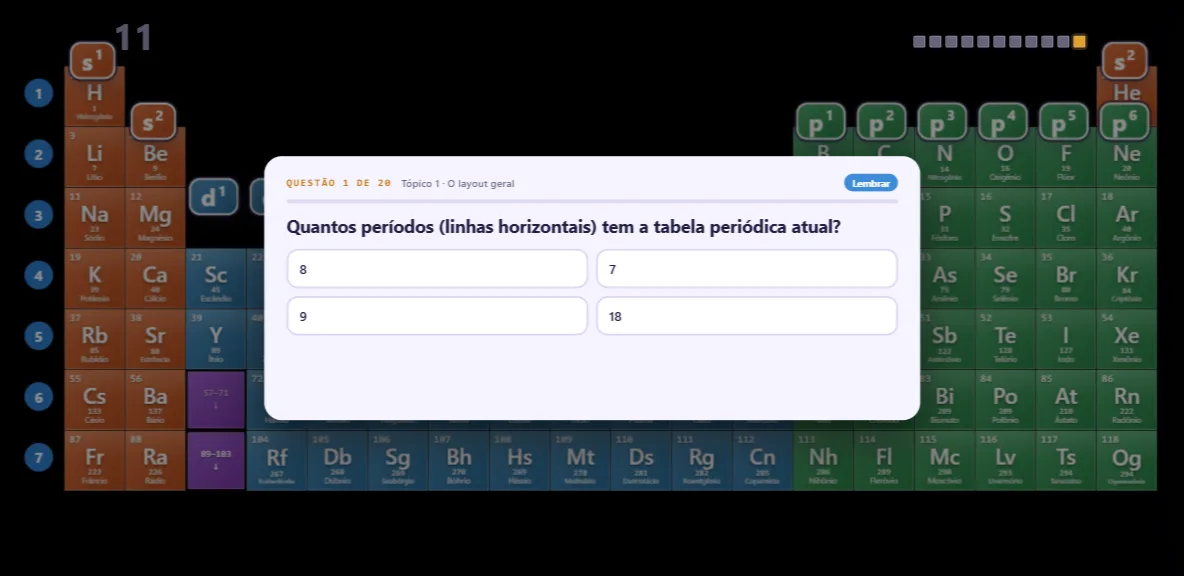
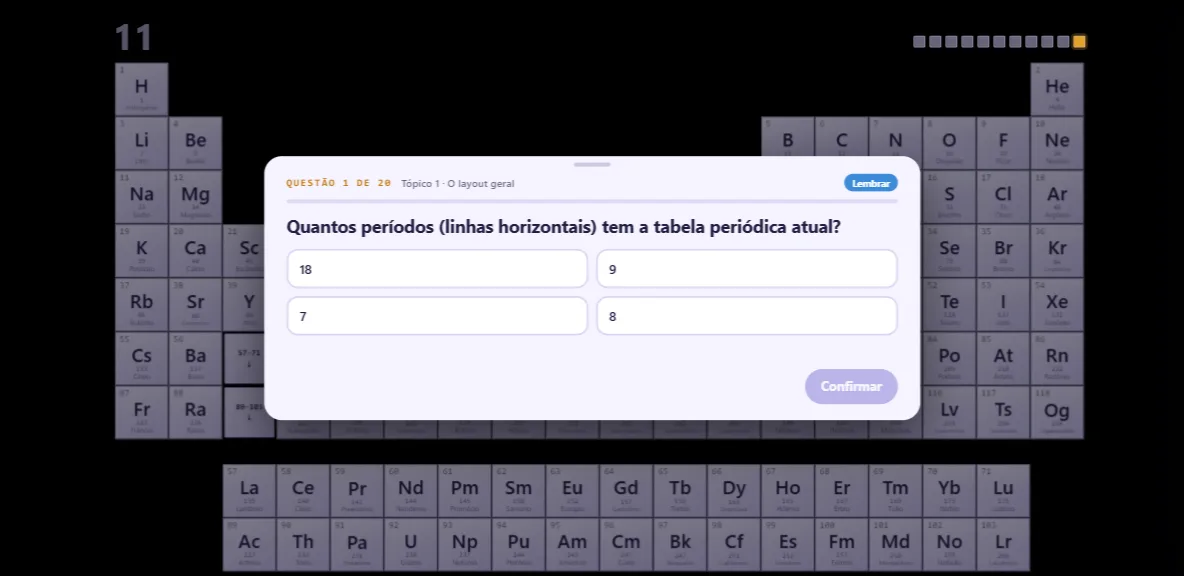
v67.7 · Quiz geral: a mesa do começo do tópico 10 em todas as questões; a resposta vale só no Confirmar (com o som); a caixa sai para a direita e a nova entra pela esquerda, com rastro de luz

diff --git a/tabela-periodica.html b/tabela-periodica.html
@@ -3589,7 +3589,38 @@ body.montagem .titulo9.texto101.fora1052{opacity:0!important;pointer-events:none
 .qf-msg.ok{color:#1E8A4C}
 .qf-msg.erro{color:#C0283F}
 .qf-pe{display:flex;justify-content:flex-end;margin-top:8px;min-height:44px}
-.qf-prox{font:700 16px var(--display);padding:10px 20px;border-radius:999px;border:0;background:#4C3FBF;color:#fff;cursor:pointer}
+.qf-prox{font:700 16px var(--display);padding:10px 20px;border-radius:999px;border:0;background:#4C3FBF;color:#fff;cursor:pointer;transition:opacity .2s, transform .15s}
+/* (v67.7: tocar numa alternativa só a marca; o som e a correção vêm no Confirmar) */
+.qf-op.escolhida{border-color:#4C3FBF;background:#ECE8FF;box-shadow:0 0 0 3px rgba(76,63,191,.18)}
+.qf-caixa .qf-prox:disabled{opacity:.35;cursor:default}
+.qf-prox:not(:disabled):hover{transform:translateY(-1px)}
+/* (v67.7: a troca de questão — a caixa dispara para a direita, borrada e esticada,
+   e a nova chega pela esquerda, passa um pouco do lugar e assenta; um rastro de
+   luz atravessa a sala e um brilho varre a caixa nova) */
+.qf-caixa.sai{animation:qfSai .5s cubic-bezier(.55,0,.85,.35) forwards;pointer-events:none}
+.qf-caixa.entra{animation:qfEntra .78s cubic-bezier(.2,.8,.25,1) .12s backwards}
+@keyframes qfSai{
+  0%{transform:translate(-50%,-50%)}
+  22%{transform:translate(calc(-50% - 26px),-50%) scale(.97);filter:blur(0)}
+  100%{transform:translate(calc(-50% + 1100px),-50%) skewX(-16deg) scaleX(1.3);filter:blur(12px);opacity:0}}
+@keyframes qfEntra{
+  0%{transform:translate(calc(-50% - 1100px),-50%) skewX(-16deg) scaleX(1.3);filter:blur(12px);opacity:0}
+  55%{transform:translate(calc(-50% + 24px),-50%) skewX(5deg) scaleX(.97);filter:blur(0);opacity:1}
+  78%{transform:translate(calc(-50% - 7px),-50%) skewX(-1.5deg)}
+  100%{transform:translate(-50%,-50%)}}
+.qf-caixa.entra::after{content:'';position:absolute;inset:0;border-radius:inherit;pointer-events:none;
+  background:linear-gradient(105deg,transparent 38%,rgba(255,255,255,.95) 48%,rgba(190,180,255,.7) 52%,transparent 62%) no-repeat;
+  background-size:300% 100%;box-shadow:0 0 0 2px rgba(150,135,255,.9), 0 0 38px 8px rgba(120,100,255,.55);
+  animation:qfBrilho .9s ease-out .35s backwards}
+@keyframes qfBrilho{0%{background-position:100% 0;opacity:1}70%{opacity:1}100%{background-position:0 0;opacity:0}}
+.qf-rastro{position:absolute;inset:0;z-index:46;pointer-events:none;overflow:hidden}
+.qf-rastro i{position:absolute;left:0;width:70%;border-radius:999px;
+  background:linear-gradient(90deg,transparent,rgba(130,115,255,0) 10%,rgba(150,135,255,.85) 70%,#fff);
+  box-shadow:0 0 14px 3px rgba(140,125,255,.6);animation:qfRisco .55s cubic-bezier(.3,0,.7,1) backwards}
+@keyframes qfRisco{0%{transform:translateX(-110%);opacity:0}25%{opacity:1}100%{transform:translateX(190%);opacity:0}}
+.qf-rastro b{position:absolute;width:6px;height:6px;border-radius:50%;background:#fff;
+  box-shadow:0 0 10px 3px rgba(170,155,255,.9);animation:qfFaisca .7s ease-out backwards}
+@keyframes qfFaisca{0%{transform:translate(0,0) scale(1.3);opacity:1}100%{transform:translate(var(--fx),var(--fy)) scale(0);opacity:0}}
 .quiz-cartao .segue.espera-fala{opacity:.45;cursor:default;filter:grayscale(.4)}
 .quiz-cartao .recado.recado-final{font-size:15px;line-height:1.4;max-width:300px;margin-left:auto;margin-right:auto}
 .slide.final10 .mesa{filter:brightness(.55)}
@@ -5605,7 +5636,7 @@ const TOPICO_11 = { n:11, slide:10, title:'Quiz geral', subtitle:'20 questões, 
    worker recebe-a no endereço com que é registado (sw.js?v=…). Mudando
    este texto, muda o endereço, o aparelho instala o serviço novo e o
    cache velho vai-se embora — não há uma segunda versão para esquecer. */
-const VERSAO = 'v67.6';
+const VERSAO = 'v67.7';
 
 /* A CAPA NOVA — a ideia do Claude Design: fundo escuro, o título grande e
    claro à esquerda, a tabelinha apagada ao fundo à direita e o sódio, o
@@ -25956,12 +25987,20 @@ const TOPICOS_FINAL = ['', 'O layout geral', 'Os critérios de organização', '
 const QUIZFINAL = {
   aberto:false, g:0, i:0, acertos:0,
   sl(){ return slides[10]; },
-  abre(){
+  /* (volta: { i, acertos } — o ONDE reabre o quiz na questão em que estava) */
+  abre(volta){
     if (atual !== 10) return;
+    /* (v67.7: em todas as questões, a mesa do começo do tópico 10 — lilás, com as séries embaixo) */
+    this.mesaDoComeco();
     this.fecha(true);
     this.g++;
-    this.i = 0; this.acertos = 0; this.aberto = true;
+    const n = QUESTOES_FINAL.length;
+    this.i = volta ? Math.max(0, Math.min(n, volta.i | 0)) : 0;
+    this.acertos = volta ? Math.max(0, Math.min(this.i, volta.acertos | 0)) : 0;
+    this.aberto = true;
     som.pause(); stage.classList.add('sem-play-m10');
+    /* (a sala escura do quiz 3, posta de novo: a troca de trilha a clareia) */
+    if (window.QUIZ10C){ QUIZ10C.jaAbriu = true; QUIZ10C.escurece(); }
     const sl = this.sl();
     sl.classList.add('final10');
     const tt = sl.querySelector('.tira .title');
@@ -25969,12 +26008,57 @@ const QUIZFINAL = {
     else cabecaDoQuiz(sl, true, 'Quiz final', 'quiz-cabeca');
     /* (v67.5: é o tópico 11 — o número do cabeçalho vira 11) */
     const nn = sl.querySelector('.tira .num'); if (nn) nn.textContent = TOPICO_11.n;
-    const cx = this.cx = document.createElement('div');
-    cx.className = 'qf-caixa';
-    sl.appendChild(cx);
-    this.arrastavel(cx);
+    /* (voltando depois da última questão já respondida: direto ao cartão da nota) */
+    if (this.i >= n){ this.i = n - 1; this.respondida = true; this.resultado(); return; }
+    const cx = this.cx = this.novaCaixa();
     cx.getBoundingClientRect(); cx.classList.add('on');
     this.mostra();
+  },
+  /* a mesa como no começo do tópico 10: a trilha "10" parada no 0 (o relógio põe a mesa) */
+  mesaDoComeco(){
+    if (trilhaAtual !== '10'){ trilhaAtual = -1; carregaTrilha('10'); }
+    som.pause();
+    const zera = () => { if (trilhaAtual === '10' && som.currentTime) som.currentTime = 0; };
+    if (som.readyState >= 1) zera(); else som.addEventListener('loadedmetadata', zera, { once:true });
+    try { efeitosDoTempo(); } catch (e){ console.error(e); }
+  },
+  novaCaixa(){
+    const cx = document.createElement('div');
+    cx.className = 'qf-caixa';
+    this.sl().appendChild(cx);
+    this.arrastavel(cx);
+    return cx;
+  },
+  /* (v67.7) a troca de questão: a caixa velha dispara para a direita, a nova vem da esquerda */
+  proxima(){
+    const velha = this.cx, sl = this.sl();
+    this.i++;
+    if (velha){ velha.classList.add('sai'); setTimeout(() => velha.remove(), 560); }
+    this.rastro(sl);
+    const cx = this.cx = this.novaCaixa();
+    cx.classList.add('on', 'entra');
+    cx.addEventListener('animationend', e => { if (e.animationName === 'qfEntra') cx.classList.remove('entra'); });
+    this.mostra(true);
+  },
+  /* os riscos de luz que atravessam a sala na altura da caixa, e as faíscas que ela solta */
+  rastro(sl){
+    const r = document.createElement('div');
+    r.className = 'qf-rastro';
+    const cy = sl.offsetHeight / 2 + this.dy;
+    let h = '';
+    for (let k = 0; k < 9; k++){
+      const y = cy + (Math.random() - .5) * 300, alto = 1.5 + Math.random() * 3.5;
+      h += '<i style="top:' + y.toFixed(0) + 'px;height:' + alto.toFixed(1) + 'px;animation-delay:' + (Math.random() * .22).toFixed(2) + 's"></i>';
+    }
+    const cx = sl.offsetWidth / 2 + this.dx;
+    for (let k = 0; k < 14; k++){
+      const x = cx + (Math.random() - .5) * 700, y = cy + (Math.random() - .5) * 260;
+      h += '<b style="left:' + x.toFixed(0) + 'px;top:' + y.toFixed(0) + 'px;--fx:' + (60 + Math.random() * 160).toFixed(0) + 'px;--fy:' +
+           ((Math.random() - .5) * 120).toFixed(0) + 'px;animation-delay:' + (.05 + Math.random() * .3).toFixed(2) + 's"></b>';
+    }
+    r.innerHTML = h;
+    sl.appendChild(r);
+    setTimeout(() => r.remove(), 1200);
   },
   /* (v67.6: o aluno arrasta a caixa para ver a tabela atrás; ela fica onde foi posta
      nas questões seguintes e no Refazer, e volta ao meio quando o quiz fecha) */
@@ -26004,24 +26088,35 @@ const QUIZFINAL = {
     cx.addEventListener('pointerup', solta);
     cx.addEventListener('pointercancel', solta);
   },
-  mostra(){
-    const Q = QUESTOES_FINAL[this.i], ops = embaralha(Q.ops.slice());
-    this.respondida = false;
+  /* (anda: veio da questão anterior — a barra cresce a partir de onde estava) */
+  mostra(anda){
+    const Q = QUESTOES_FINAL[this.i], ops = embaralha(Q.ops.slice()), n = QUESTOES_FINAL.length;
+    this.respondida = false; this.escolhida = null;
+    const pc = k => (Math.max(0, k) / n * 100).toFixed(1) + '%';
     this.cx.innerHTML =
-      '<div class="qf-topo"><span class="qf-marca">Questão ' + (this.i + 1) + ' de ' + QUESTOES_FINAL.length + '</span>' +
+      '<div class="qf-topo"><span class="qf-marca">Questão ' + (this.i + 1) + ' de ' + n + '</span>' +
       '<span class="qf-topico">Tópico ' + Q.t + ' · ' + TOPICOS_FINAL[Q.t] + '</span>' +
       '<span class="qf-bloom" data-nivel="' + Q.nivel + '">' + Q.nivel + '</span></div>' +
-      '<div class="qf-barra"><i style="width:' + (this.i / QUESTOES_FINAL.length * 100).toFixed(1) + '%"></i></div>' +
+      '<div class="qf-barra"><i style="width:' + pc(anda ? this.i - 1 : this.i) + '"></i></div>' +
       '<div class="qf-q">' + Q.q + '</div>' +
       '<div class="qf-ops">' + ops.map(o => '<button type="button" class="qf-op">' + o + '</button>').join('') + '</div>' +
-      '<div class="qf-msg"></div><div class="qf-pe"></div>';
-    this.cx.querySelectorAll('.qf-op').forEach(b => b.addEventListener('click', () => this.responde(b)));
+      '<div class="qf-msg"></div><div class="qf-pe"><button type="button" class="qf-prox qf-confirma" disabled>Confirmar</button></div>';
+    if (anda){ const bar = this.cx.querySelector('.qf-barra i'); setTimeout(() => { bar.style.width = pc(this.i); }, 650); }
+    this.cx.querySelectorAll('.qf-op').forEach(b => b.addEventListener('click', () => this.escolhe(b)));
+    this.cx.querySelector('.qf-confirma').addEventListener('click', () => { if (this.escolhida) this.responde(this.escolhida); });
+  },
+  /* (v67.7) o toque numa alternativa só a marca — pode-se trocar até confirmar */
+  escolhe(b){
+    if (!this.aberto || this.respondida) return;
+    this.escolhida = b;
+    this.cx.querySelectorAll('.qf-op').forEach(x => x.classList.toggle('escolhida', x === b));
+    this.cx.querySelector('.qf-confirma').disabled = false;
   },
   responde(b){
     if (!this.aberto || this.respondida) return;
     this.respondida = true;
     const Q = QUESTOES_FINAL[this.i], certa = b.textContent === Q.ops[0];
-    this.cx.querySelectorAll('.qf-op').forEach(x => { x.disabled = true; if (x.textContent === Q.ops[0]) x.classList.add('certa'); });
+    this.cx.querySelectorAll('.qf-op').forEach(x => { x.disabled = true; x.classList.remove('escolhida'); if (x.textContent === Q.ops[0]) x.classList.add('certa'); });
     const m = this.cx.querySelector('.qf-msg');
     if (certa){
       this.acertos++;
@@ -26038,12 +26133,13 @@ const QUIZFINAL = {
     p.querySelector('.qf-prox').addEventListener('click', () => {
       if (!this.aberto) return;
       if (ult) { this.resultado(); return; }
-      this.i++; this.mostra();
+      this.proxima();
     });
   },
   resultado(){
     const n = QUESTOES_FINAL.length, nota = Math.round(this.acertos / n * 100) / 10;
-    if (this.cx){ const cx = this.cx; cx.classList.remove('on'); setTimeout(() => cx.remove(), 500); this.cx = null; }
+    /* (a última caixa sai como as outras: disparando para a direita) */
+    if (this.cx){ const cx = this.cx; cx.classList.add('sai'); this.rastro(this.sl()); setTimeout(() => cx.remove(), 560); this.cx = null; }
     QUIZ_FEITOS.marca('q10f', nota);
     confete();
     cartaoDoResultado(nota, n + ' questões · <em class="erro">' + (n - this.acertos) + '</em> ' + (n - this.acertos === 1 ? 'erro' : 'erros'),
@@ -26065,7 +26161,7 @@ const QUIZFINAL = {
     this.aberto = false;
     const sl = this.sl();
     if (!sl) return;
-    sl.querySelectorAll('.qf-caixa, .quiz-cartao').forEach(e => e.remove());
+    sl.querySelectorAll('.qf-caixa, .qf-rastro, .quiz-cartao').forEach(e => e.remove());
     this.cx = null;
     /* (o número do cabeçalho volta a ser o 10 — o abre põe o 11 de novo) */
     const nn = sl.querySelector('.tira .num'); if (nn) nn.textContent = TOPICO_11.slide;
@@ -29709,11 +29805,12 @@ const NAV_TOPICOS = [
   { titulo:'Quiz musical', sub:'o quiz musical direto: as notas pelos subníveis e a música', slide:10, quiz:'q10m',
     salto:['10.7.3', 24.5, true],
     entra(v, g){ QUIZ10C.jaAbriu = true; saltaPara10('10.7.3', g, 24.5, () => { QUIZ10C.jaAbriu = true; QUIZ10C.escurece(); MUSICA10.abre(); }); } },
-  /* o quiz geral direto (o quiz final: 20 questões, duas de cada tópico): a mesa como no fim da 10.7.3, a sala escura */
+  /* o quiz geral direto (o quiz final: 20 questões, duas de cada tópico): a sala escura */
   /* (v67.5: é o capítulo 11 do sumário — cap11 —, e não um subtópico do 10) */
+  /* (v67.7: a mesa é a do começo do tópico 10 — a trilha "10" parada no 0; o QUIZFINAL.abre escurece a sala) */
   { titulo:'Quiz geral', sub:'o quiz final: 20 questões, duas de cada tópico', slide:10, quiz:'q10f', cap11:true,
-    salto:['10.7.3', 24.5, true],
-    entra(v, g){ QUIZ10C.jaAbriu = true; saltaPara10('10.7.3', g, 24.5, () => { QUIZ10C.jaAbriu = true; QUIZ10C.escurece(); QUIZFINAL.abre(); }); } },
+    salto:['10', 0, true],
+    entra(v, g){ saltaPara10('10', g, 0, () => QUIZFINAL.abre()); } },
   { titulo:'Jogo da memória', sub:'a narração do jogo, e o botão dele no canto', slide:1, quiz:'jogo',
     variantes:[ { id:'jogo', rotulo:'abrir o jogo direto' } ],
     entra(v, g){
@@ -30399,6 +30496,8 @@ const ONDE = {
     if (QUIZ.aberto) o.quiz = { origem:QUIZ.origem, itens:QUIZ.itens.map(i => i.z), passo:QUIZ.passo,
                                 acertos:QUIZ.acertos, erros:QUIZ.erros, nota:!!QUIZ.mostrandoNota };
     if (QUIZ3.aberto) o.quiz3 = true;
+    /* (v67.7: o quiz geral — a questão em que está; respondida, já conta a seguinte) */
+    if (atual === 10 && QUIZFINAL.aberto) o.final = { i:QUIZFINAL.i + (QUIZFINAL.respondida ? 1 : 0), acertos:QUIZFINAL.acertos };
     /* no slide 11, os cards dos subníveis já nos encaixes */
     if (atual === 10 && CARDS101.postos.size) o.blocos10 = [...CARDS101.postos];
     if (atual === 10 && CARDS101.passo103) o.colunas103 = CARDS101.passo103;
@@ -30484,6 +30583,7 @@ const ONDE = {
       if (o.quiz) QUIZ.retoma(o.quiz);
       else if (o.jogo) this.jogo(o.jogo);
       else if (o.quiz3){ viraQuiz(true); QUIZ3.abre(); }
+      else if (o.final) QUIZFINAL.abre(o.final);
       else if (o.resumo){
         const k = o.resumo === true ? 1 : o.resumo;
         if (k === 1) SEQ.quizDa = '1.4'; else viraQuiz(true, 'Resumo');

diff --git a/NOTAS_TOPICO_10.md b/NOTAS_TOPICO_10.md
@@ -126,7 +126,7 @@ O áudio antigo da 10.6 (82,7 s) foi dividido em três. As legendas da 10.6 fica
 | s – O exemplo do Pu | 10.7.6 |
 | t – Quiz 3 | 10.7.3 aos 10,2 s (a demonstração e o quiz 3; v65.5: já escura e limpa, sem se montar — pula1073) |
 | u – Quiz musical | o jogo musical direto (a mesa como no fim da 10.7.3, a sala escura) |
-| **11. Quiz geral** (capítulo próprio, v67.5) | o quiz final direto (20 questões, duas de cada tópico; a sala escura) |
+| **11. Quiz geral** (capítulo próprio, v67.5) | o quiz final direto (20 questões, duas de cada tópico; a sala escura; v67.7: a mesa do começo do tópico 10 — trilha "10" parada no 0) |
 
 **Todos os itens do sumário do tópico 10 saltam direto para a tela do começo** (v60.5), sem a cena se montar à vista. Cada item tem `salto:[trilha, segundo, quiz?]`; o `irPara` chama `preparaSalto10` (e um `efeitosDoTempo()` na hora) logo depois do `go()` — ou, no mesmo slide, logo depois do `recomecaSlide()`, para a cena da 10 não aparecer num quadro — (a trilha já é posta parada naquele segundo, e a classe `salto1071` no `#stage` desliga as transições), e o `entra` chama `saltaPara10`, que toca a narração (ou abre o quiz) quando a mesa chega; as transições voltam 0,3 s depois (e, de todo jeito, em 4 s). Item novo no sumário do tópico 10: usar `salto:[...]` + `entra(v, g){ saltaPara10(...) }`.
 
@@ -263,6 +263,7 @@ Retiming da 8.4; card tocado todo verde ou só contorno; armadilha da Q8 do quiz
 - **v66.3:** na 10.7.6, aos 16 s o n do "n − 2" vira 7 (azul): "7 − 2"; aos 19 s, o 5 vermelho. A bolinha 7 da série e a fórmula são medidas quando a bolinha aparece (antes, pelo sumário, eram medidas com a mesa ainda chegando e ficavam fora da tela).
 - **v66.5:** no quiz musical (a 10.7.8 e o jogo) e no quiz geral, a tabela volta a ficar sem os lantanídeos e actinídeos, no lugar da 10.6 (`abreF107` dá falso); os elementos que piscam na 10.7.8 não são das séries.
 - **v66.6–v66.7:** na 10.6, aos 9 s (por 2 s), os blocos s e p crescem 7 % e brilham, com o halo de cada bloco (`cresceSP106`; os halos são refeitos na hora, e a 10.5.1 refaz os seus se foram medidos noutra narração); a tela escura da regra tem o título "Elementos Representativos (s ou p)". Na 10.6.1, sem as pulsações na chegada das setas: ficam as dos 11 s (bolinha do 3) e 12,3 s (etiqueta s²) e o revezamento do fim.
+- **v67.7:** o quiz geral é o foco agora. Em todas as questões, a mesa é a do começo do tópico 10 (lilás, com as séries embaixo): `QUIZFINAL.mesaDoComeco()` põe a trilha "10" parada no 0, venha o quiz do sumário, do cartão do musical, do Refazer ou do ONDE; o próprio `abre` escurece a sala (`QUIZ10C.escurece`). Tocar numa alternativa só a marca (`.escolhida`, dá para trocar); o som (right/error) e a correção vêm no botão **Confirmar**, que vira "Próxima →". Na troca de questão (`proxima`), a caixa dispara para a direita (borrada, esticada) e a nova vem da esquerda, passa do lugar e assenta, com riscos de luz e faíscas (`rastro`) e um brilho que varre a caixa; a barra de progresso cresce depois que ela chega. O ONDE guarda o quiz geral (`o.final = { i, acertos }`; respondida, já conta a seguinte) e reabre na mesma questão.
 - **v67.6:** no quiz geral a caixa das questões se arrasta (pelo fundo, não pelos botões; o tracinho no alto é a alça), sempre inteira dentro do slide; fica onde foi posta nas questões seguintes e no Refazer, e volta ao meio quando o quiz fecha (`QUIZFINAL.arrastavel`, `dx`/`dy`). No cabeçalho do quiz geral o título começa logo depois do "11" (antes o cobria).
 - **v67.5 — o tópico 11:** o quiz geral deixou de ser o "v" do tópico 10 e virou o **tópico 11** (`TOPICO_11`), só com ele. Não é um slide novo: mora no slide 11, sobre a mesa do 10. No sumário é o capítulo "11. Quiz geral" (o item do NAV_TOPICOS tem `cap11:true` e fica fora da lista do 10); no carrossel é o cartão depois do último slide (`CAR.N11`, "11 / 11"; a foto é `Imagens/slides/pc-11.webp` e `cel-11.webp` — `node ferramentas/gera-miniaturas.mjs 11`); com o quiz aberto o cabeçalho mostra 11 (`no11()`). Do cartão 11 para o 10 no carrossel, o tópico 10 recomeça. A régua de quadradinhos do alto continua com os 10 slides.
 - **v67.4:** na 10.7.1 (o Fe), sem as pulsações na chegada das setas (6,9 s e 8,4 s): a bolinha do 4 pulsa aos 24 s e aos 28 s, a etiqueta d⁶ aos 25,9 s e aos 29 s (`T1071.piscaL`, `piscaC`). O 3 vermelho continua pulsando aos 24,9 s.
